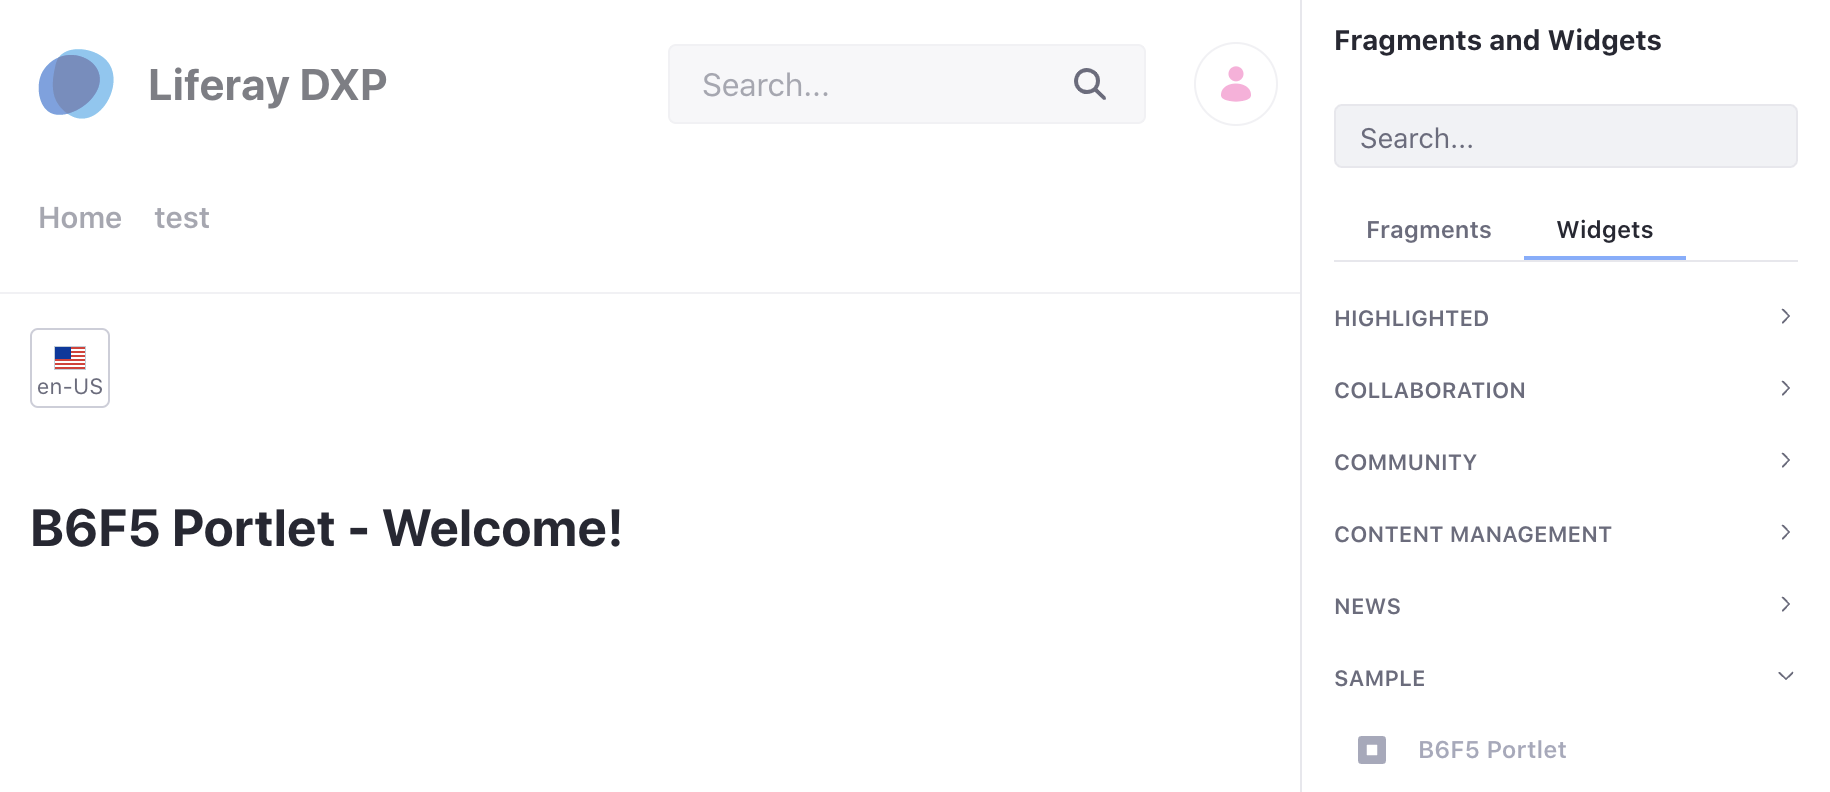
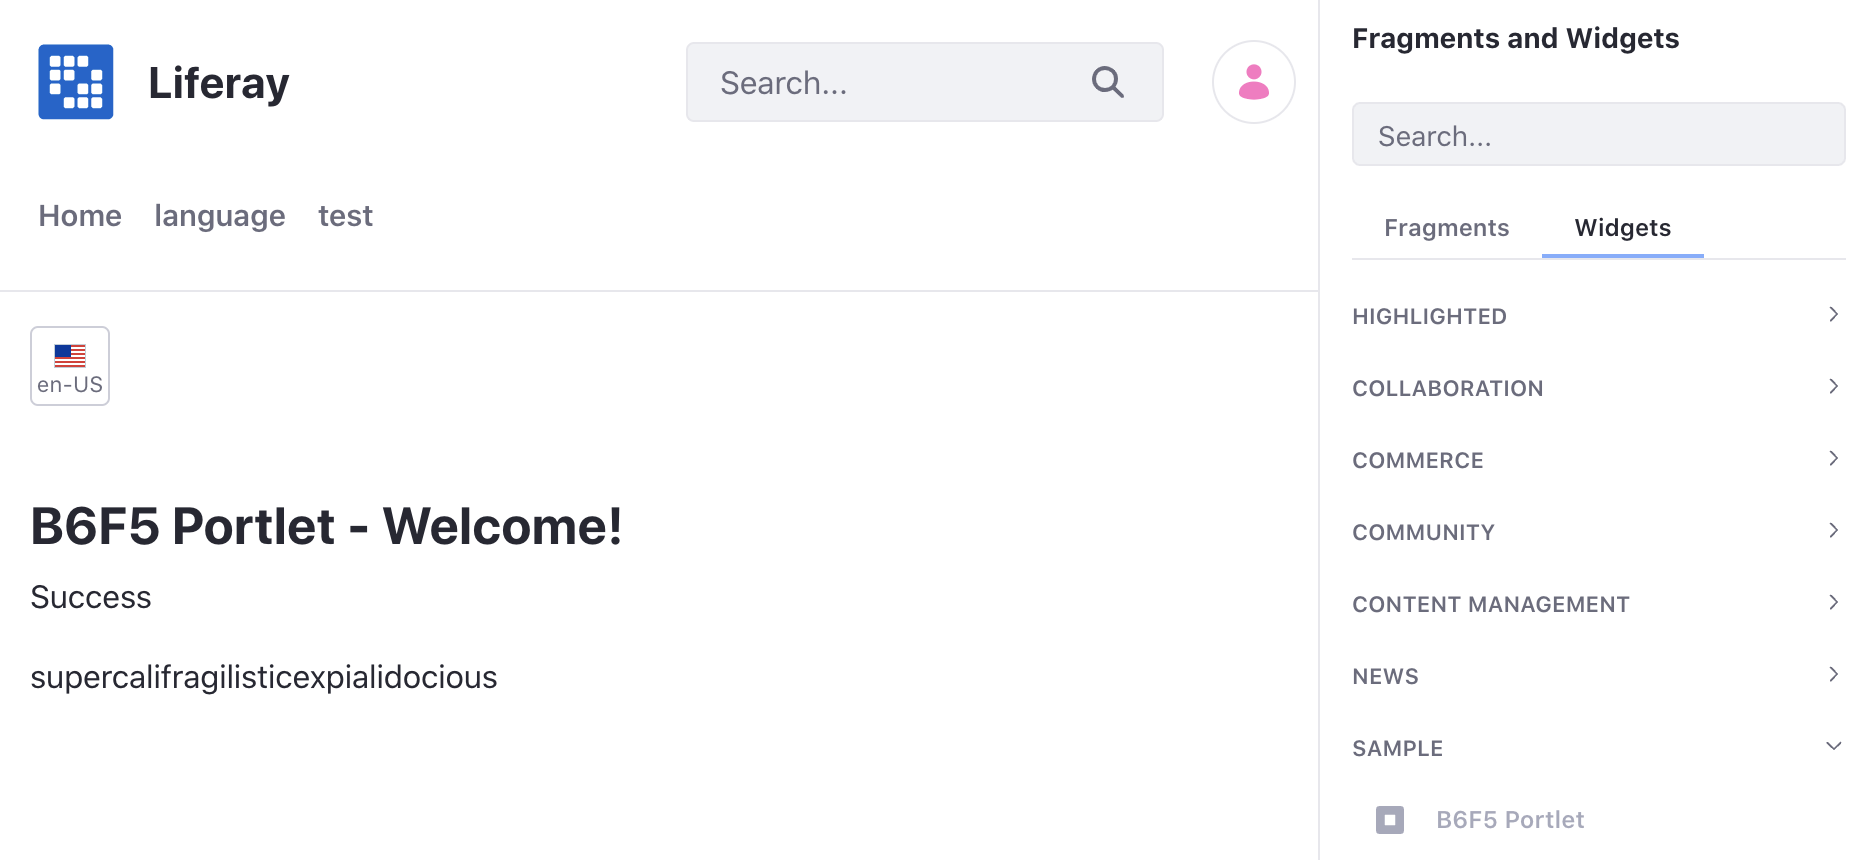
LRDOCS-7774 added note about supercalifragilisticexpialidocious

diff --git a/docs/dxp/7.x/en/developing-applications/developing-a-java-web-application/using-mvc/using-localized-messages-in-an-mvc-portlet.md b/docs/dxp/7.x/en/developing-applications/developing-a-java-web-application/using-mvc/using-localized-messages-in-an-mvc-portlet.md
@@ -79,6 +79,14 @@ The example project includes a `view.jsp` file with a simple welcome header that
 <h1><liferay-ui:message key="b6f5-portlet-welcome" /></h1>
 ```
 
+Note that there is an extra `liferay-ui:message` that is included in the example jsp file: 
+
+```jsp
+<liferay-ui:message key="supercalifragilisticexpialidocious" />
+```
+
+This demonstrates that if no such key is found in the `Language.properties` file, simply the label will be displayed.
+
 Learn more about taglibs in our [Liferay Tag Library Documentation](https://docs.liferay.com/portal/7.3-latest/taglibs/util-taglib/). 
 Each taglib has a list of attributes that can be passed to the tag.
 
